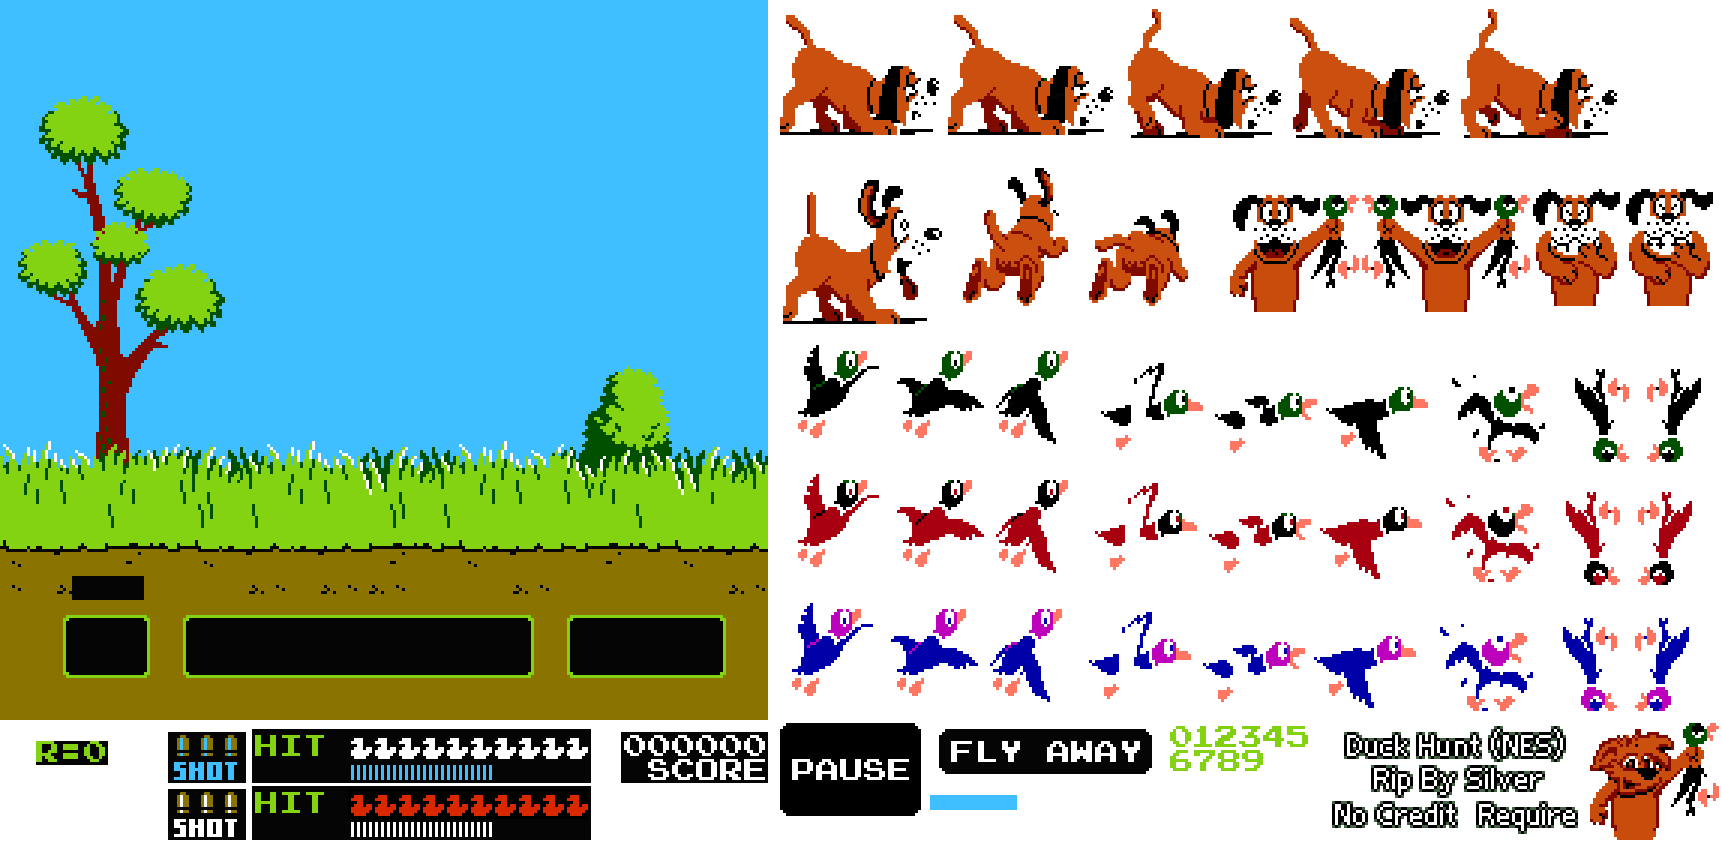
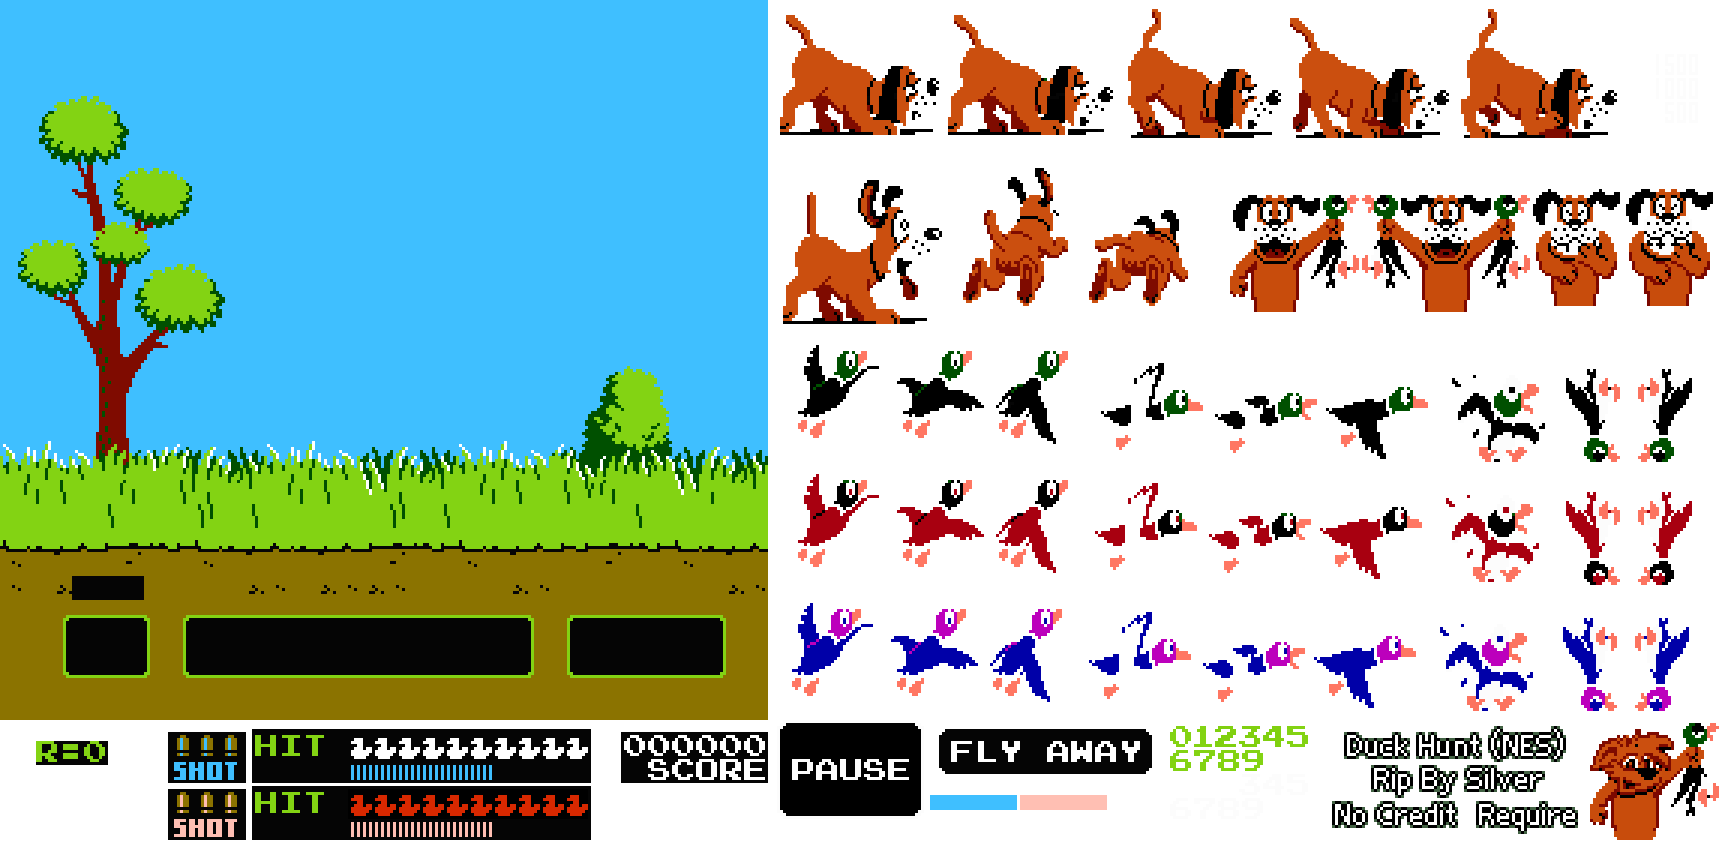
Death animation implemented

diff --git a/Duck Hunt/MainWindow.xaml.cs b/Duck Hunt/MainWindow.xaml.cs
@@ -63,44 +63,43 @@ namespace Duck_Hunt
              This is the only way to make it work properly. It was much easier to just swallow my pride and do this,
              rather than figure out why it's actually broken. It even uses the correct number values to index, or at least
              according to the tracepoint. So I was stumped, and still am, regarding this issue.
-             
-             */
-
-            // red top: 474
-            // blue top: 603
-            // green top 345
-
-            // sorted: 
-            //  green: 345
-            //  red: 474
-            //  blue: 603
-
-            // -345
-            // green: 0
-            // red: 129
-            // blue: 258
-
-            // -129
-            // 0
-            // 129
+    */
 
             // Roll for duck colour
             int vPixelValue = 345 + 129*(RNG.Next(0, 3)); // Generate a number from 0 to 2
+            Tuple<int, int> SpriteSize = Tuple.Create(93, 93);
 
 
             DuckSprites.Add(main.CropSpriteFrom(
-                Tuple.Create(798, vPixelValue), // Duck frame 1 (alive, moving)
-                Tuple.Create(40 * 2, 47 * 2)
+                Tuple.Create(795, vPixelValue), // Duck frame 1 (alive, moving)
+                SpriteSize
             ));
 
             DuckSprites.Add(main.CropSpriteFrom(
-                Tuple.Create(891, vPixelValue), // Duck frame 2 (alive, moving)
-                Tuple.Create(96, 87)
+                Tuple.Create(887, vPixelValue), // Duck frame 2 (alive, moving)
+                SpriteSize
             ));
 
             DuckSprites.Add(main.CropSpriteFrom(
-                Tuple.Create(991, vPixelValue), // Duck frame 3 (alive, moving)
-                Tuple.Create(77, 93)
+                Tuple.Create(987, vPixelValue), // Duck frame 3 (alive, moving)
+                SpriteSize
+            ));
+
+            // Add dead sprites at indexes >=4
+
+            DuckSprites.Add(main.CropSpriteFrom(
+                Tuple.Create(1446, vPixelValue+25), // Dead frame 1
+                Tuple.Create(93, 87)
+            ));
+
+            DuckSprites.Add(main.CropSpriteFrom(
+                Tuple.Create(1563, vPixelValue+13), // Dead frame 2 (falling 1)
+                Tuple.Create(54, 99) // Unfortunately we can't use a fixed size here as this sprite is close to others in the sheet
+            ));
+
+            DuckSprites.Add(main.CropSpriteFrom(
+                Tuple.Create(1647, vPixelValue + 13), // Dead frame 2 (falling 1)
+                Tuple.Create(54, 99) // Unfortunately we can't use a fixed size here as this sprite is close to others in the sheet
             ));
 
 
@@ -139,9 +138,11 @@ namespace Duck_Hunt
                 DuckClick, // Click event handler
                 GameBg, // Parent canvas
                 Behaviour.DuckFlyUp, // AI function that makes it move/change sprites
-                20, // Interval (in milliseconds) between calls to above AI function
-                Behaviour.DuckDeath
+                20 // Interval (in milliseconds) between calls to above AI function
+                
             ) {Position = Tuple.Create(350, 350), Priority = 0}; // Define initial properties of this duck
+
+            duck.OnDeath = () => Behaviour.DuckDeath(duck);
         }
 
         private void EnterGame1(object sender, MouseButtonEventArgs e)
@@ -164,6 +165,7 @@ namespace Duck_Hunt
             if (Player.Bullets > 0)
             {
                 AISprite entity = Behaviour.AIByImage[sender as Image];
+                Behaviour.DuckDeath(entity);
                 entity.Dead = true;
             }
 

diff --git a/Duck Hunt/Behaviour.cs b/Duck Hunt/Behaviour.cs
@@ -80,19 +80,47 @@ namespace Duck_Hunt
 
         public static int DuckDeath(AISprite entity)
         {
-            entity.Timer.Elapsed -= new ElapsedEventHandler(Behaviour.DuckFlyUp);
-            entity.Timer.Elapsed += new ElapsedEventHandler(Behaviour.DuckDie);
+            entity.Timer.Elapsed -= new ElapsedEventHandler(DuckFlyUp);
+            entity.Timer.Elapsed += new ElapsedEventHandler(DuckDie);
+            entity.Timer.Enabled = true;
+            entity.Timer.Start();
             return 0;
         }
 
         public static void DuckDie(object sender, ElapsedEventArgs e)
         {
+            
             Timer theTimer = sender as Timer;
             AISprite entity = AIByTimer[theTimer];
 
+            entity.Counter++;
+
             int elapsed = Convert.ToInt32(entity.Counter*theTimer.Interval);
 
-
+            if (elapsed < 1000)
+            {
+                Application.Current?.Dispatcher.BeginInvoke(
+                    DispatcherPriority.Background,
+                    new Action(() => { entity.Img.Source = entity.Frames[4].Source; }));
+                
+            }
+            if (elapsed > 1000)
+            {
+                if (elapsed%4 == 0)
+                {
+                    Application.Current?.Dispatcher.BeginInvoke(
+                        DispatcherPriority.Background,
+                        new Action(() => { entity.Img.Source = entity.Frames[5].Source; }));
+                    
+                }
+                else
+                {
+                    Application.Current?.Dispatcher.BeginInvoke(
+                        DispatcherPriority.Background,
+                        new Action(() => { entity.Img.Source = entity.Frames[6].Source; }));
+                }
+                entity.Move(Tuple.Create(0, 3));
+            }
         }
     }
 

diff --git a/Duck Hunt/ObjectClasses.cs b/Duck Hunt/ObjectClasses.cs
@@ -199,27 +199,15 @@ namespace Duck_Hunt
 
         public AISprite(List<Image> sprites, MouseButtonEventHandler eventHandler, Canvas parent, ElapsedEventHandler ai,
                 int update)
-            // overload 1, if we don't want our sprite to have a reaction to death
-            // usually meaning it can't die, e.g. the dog
-            : base(sprites, eventHandler, parent)
-        {
-            _init(ai, update, sprites);
-            
-        }
-
-        public AISprite(List<Image> sprites, MouseButtonEventHandler eventHandler, Canvas parent, ElapsedEventHandler ai,
-                int update,
-                Func<AISprite, int> onDeathMethod)
             // overload 2, we use this for ducks, because they need to do something when they die
             // (change the animation and award the player points)
             : base(sprites, eventHandler, parent)
         {
             _init(ai, update, sprites);
 
-            OnDeath = onDeathMethod;
         }
 
-        public Func<AISprite, int> OnDeath { get; set; }
+        public Action OnDeath { get; set; }
 
         public Tuple<int, int> MovementDirection { get; set; }
         public int Counter { get; set; }
@@ -247,8 +235,8 @@ namespace Duck_Hunt
 
                 if (value) // if we're now dead
                 {
-                    OnDeath(this);
-                    this.Timer.Elapsed -= new ElapsedEventHandler(Behaviour.DuckFlyUp);
+                    OnDeath();
+                    
                     this.Counter = 0;
                     this.SpriteIndex = 0;
                     //RIP
